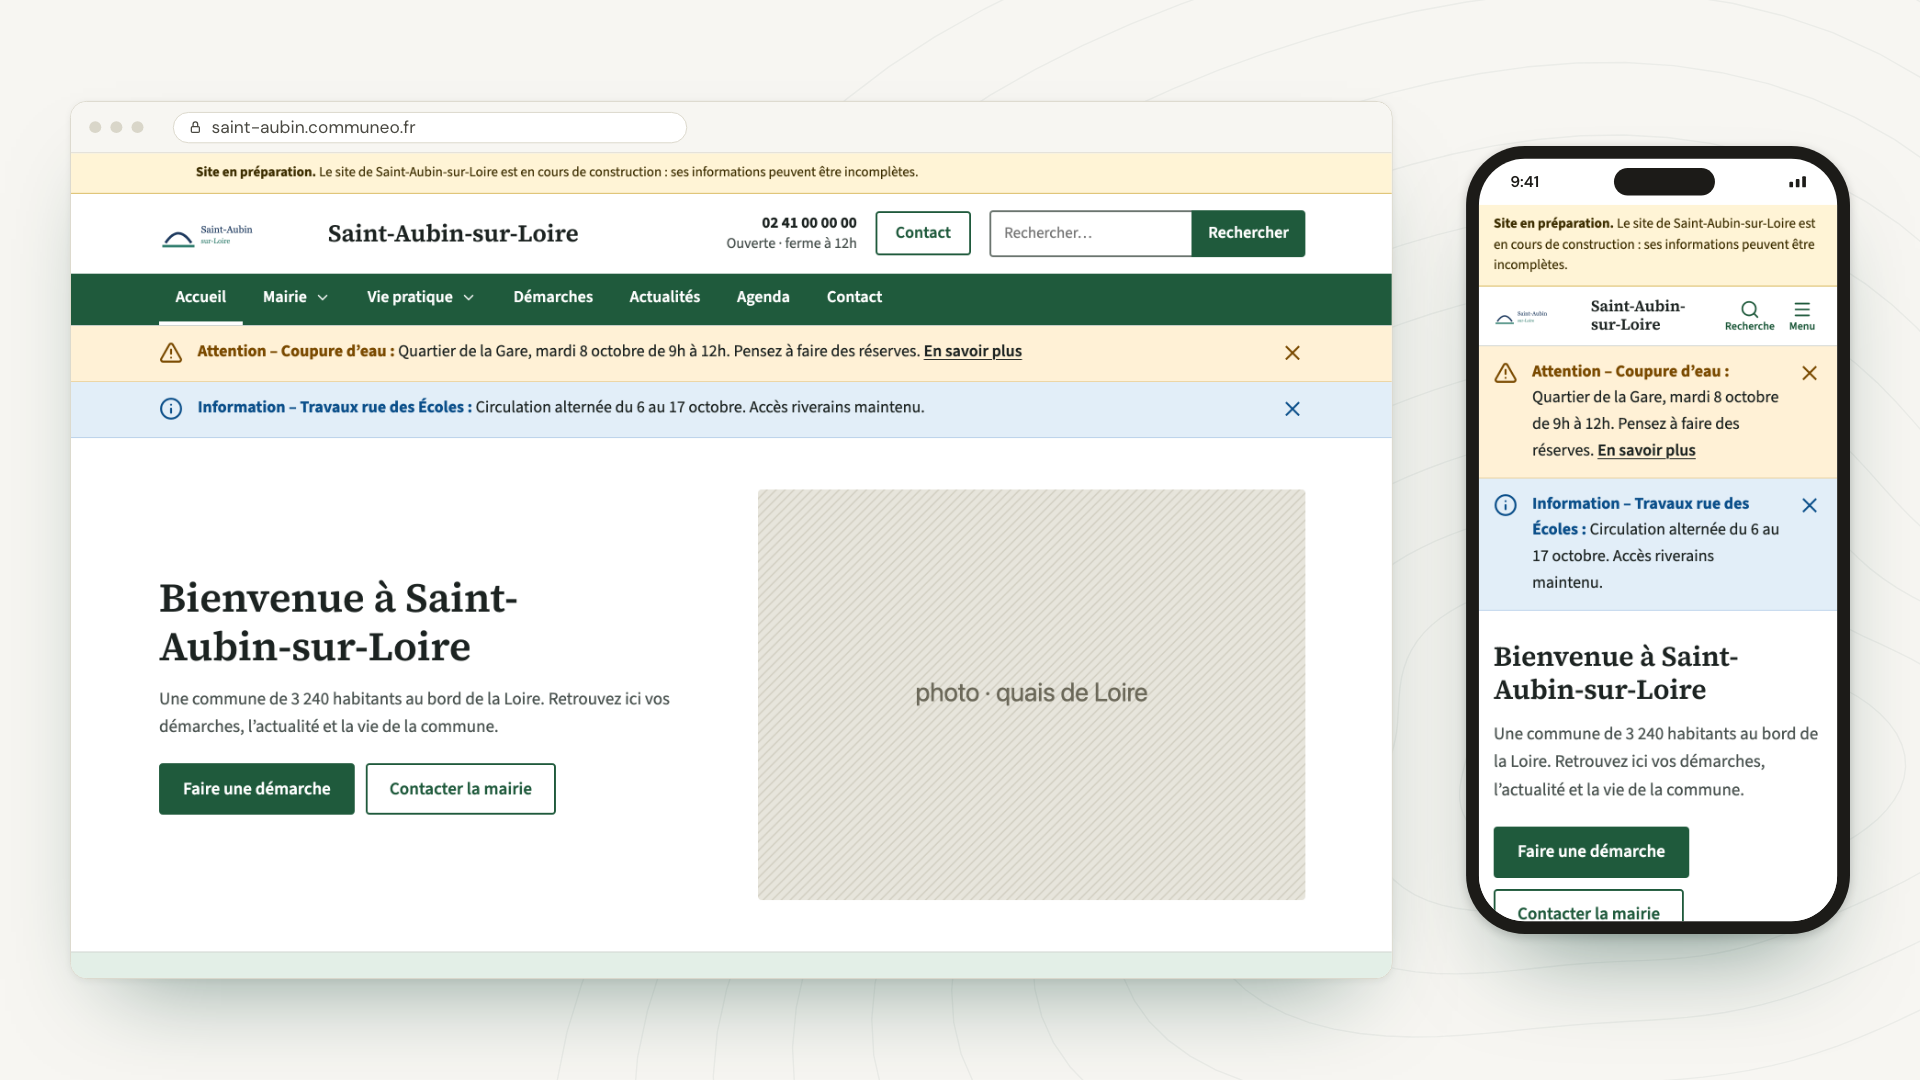
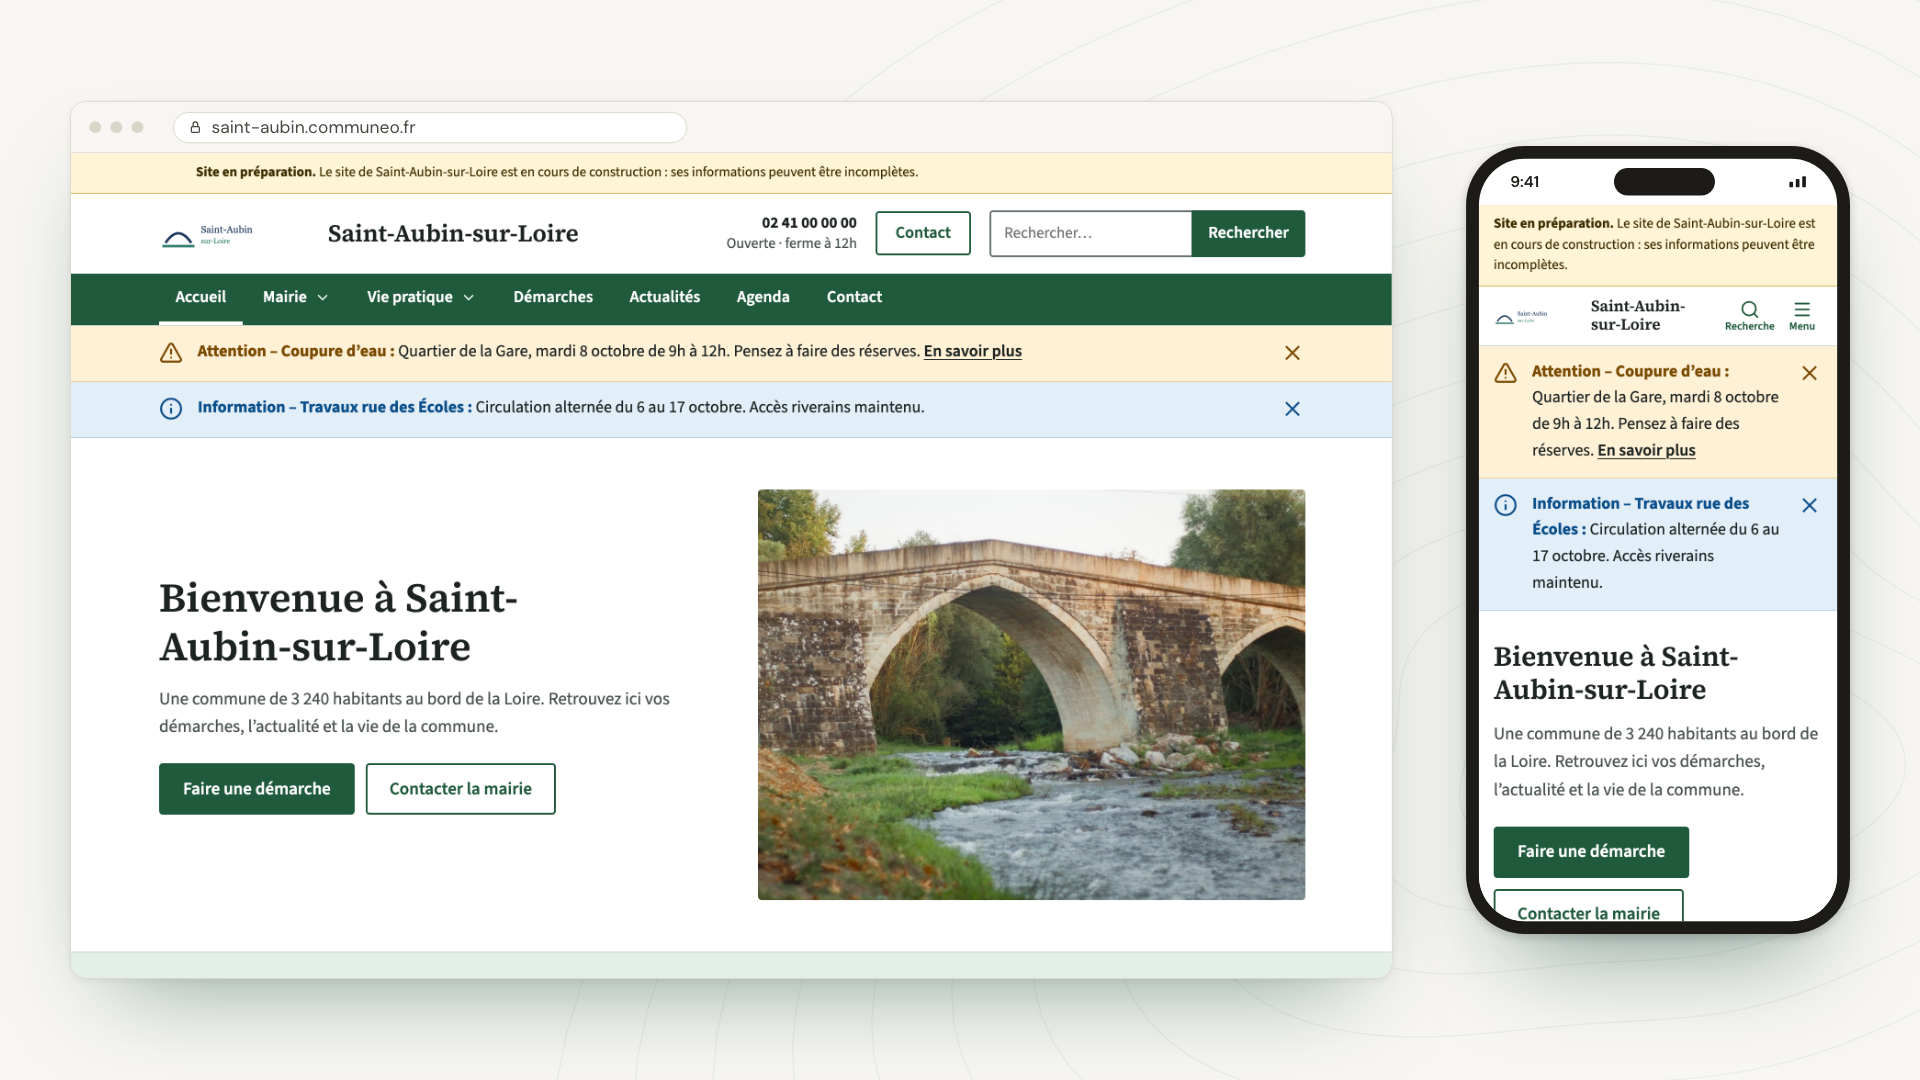
feat(videos): vraies photos de village à la place des emplacements de démonstration (#315)
Photos Pexels (licence libre d'usage commercial, sources dans photos/README.md), substituées aux
images de démonstration au moment des captures seulement : les fixtures ne changent pas.

Claude-Session: https://claude.ai/code/session_01Nt9eDdGzjZFkF7eeL1ZaWD

Changed region(s): [[0.375, 0.4278, 0.6875, 0.8556]]

diff --git a/v2/videos/scripts/captures.ts b/v2/videos/scripts/captures.ts
@@ -9,6 +9,8 @@
  * - admin : le build de l'admin servi en local (vite preview), API Strapi simulée par le mock des tests
  *   (apps/admin/e2e/api.ts : commune fictive Saint-Aubin-sur-Loire, données publiques, devis simulés) ;
  * - site : le site de démonstration construit par le renderer à partir des fixtures.
+ * Les images de démonstration (emplacements hachurés) sont remplacées par les photos libres de droits de
+ * photos/ (voir photos/README.md), sur le site comme dans l'admin : rien ne change dans les fixtures.
  *
  * Préalables : admin compilé (`--build` le recompile), builds de démonstration du renderer
  * (`E2E_THEMES=institutionnel,moderne,journal,bourg node e2e/build.mjs` dans apps/renderer).
@@ -102,6 +104,18 @@ async function vraiApercu(page: Page) {
   });
 }
 
+/** Photos libres de droits (photos/<nom>.jpg) à la place des images de démonstration de même nom */
+const PHOTOS = join(VIDEOS, 'photos');
+async function photos(page: Page) {
+  // Enregistrée en dernier : prioritaire sur les routes du mock et de l'aperçu
+  await page.route(/\/(fixtures|uploads)\/[\w-]+\.(svg|jpe?g|png)(\?.*)?$/, (route) => {
+    const nom = new URL(route.request().url()).pathname.split('/').pop()!.replace(/\.\w+$/, '');
+    const photo = join(PHOTOS, `${nom}.jpg`);
+    if (!existsSync(photo)) return route.fallback();
+    return route.fulfill({ status: 200, contentType: 'image/jpeg', body: readFileSync(photo) });
+  });
+}
+
 const browser = await chromium.launch({ args: ['--lang=fr-FR'] });
 try {
   for (const plan of captures) {
@@ -114,6 +128,7 @@ try {
       await vraiApercu(page);
     }
     await plan.donnees?.(page);
+    await photos(page);
     await page.goto(base + plan.chemin);
     await page.waitForLoadState('networkidle');
     if (plan.ou === 'admin') await page.getByRole('heading', { level: 1 }).first().waitFor();

diff --git a/v2/videos/photos/README.md b/v2/videos/photos/README.md
@@ -1,0 +1,19 @@
+# Photos des vidéos
+
+Substituées aux emplacements hachurés du site de démonstration **au moment des captures seulement**
+(`scripts/captures.ts`) : les fixtures partagées (tests, miniatures des thèmes) ne changent pas. Une
+photo remplace l'image de même nom servie sous `/fixtures/<nom>.svg` (site) ou `/uploads/<nom>.jpg`
+(médiathèque de l'admin).
+
+Source : [Pexels](https://www.pexels.com), [licence Pexels](https://www.pexels.com/license/) (usage
+commercial gratuit, attribution non requise). Recadrées au format de l'emplacement, métadonnées retirées.
+
+| Fichier | Remplace | Photo Pexels |
+|---|---|---|
+| quais-de-loire.jpg | accueil (16:9) | [18239767](https://www.pexels.com/photo/arched-stone-bridge-over-river-18239767/) |
+| marche.jpg | actualité « marché » | [32615777](https://www.pexels.com/photo/bustling-french-market-scene-with-fresh-produce-32615777/) |
+| mediatheque.jpg | actualité « médiathèque » | [19331201](https://www.pexels.com/photo/library-hall-with-tables-bookcases-and-librarian-desk-19331201/) |
+| travaux.jpg | actualité « travaux » | [448828](https://www.pexels.com/photo/man-working-on-road-448828/) |
+| salle-des-fetes.jpg | page « salle des fêtes » | [11907613](https://www.pexels.com/photo/photo-of-an-empty-room-with-chairs-11907613/) |
+| scene.jpg | bloc image « la scène » | [23522931](https://www.pexels.com/photo/black-and-white-photograph-of-a-microphone-on-a-stage-and-spotlight-reflections-23522931/) |
+| salle-des-fetes-exterieur.jpg | médiathèque de l'admin (bloc image de l'éditeur) | [33427034](https://www.pexels.com/photo/charming-stone-houses-in-la-gacilly-france-33427034/) |
